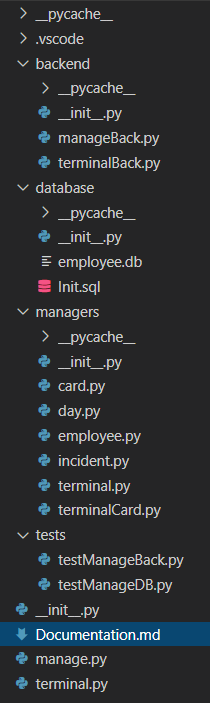
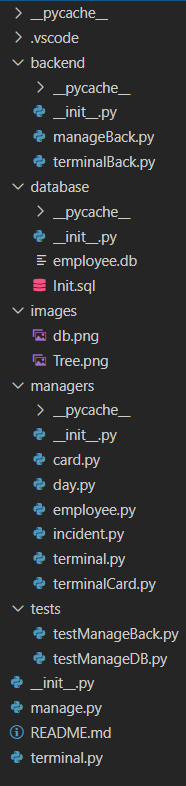
Modified readme and small fixes

diff --git a/manage.py b/manage.py
@@ -23,7 +23,7 @@ def make_action(arguments):
             manageBack.add_terminal(conn, arguments.t)
         if arguments.c:
             manageBack.add_card(conn, arguments.c) 
-        else:
+        if not arguments.e and not arguments.t and not arguments.c:
             print("Provide object to add: [-e Name Surname] [-t ID] [-c ID]")
     elif choice == 'delete':
         if arguments.e:
@@ -32,7 +32,7 @@ def make_action(arguments):
             manageBack.delete_terminal(conn, arguments.t)
         if arguments.c:
             manageBack.delete_card(conn, arguments.c)  
-        else:
+        if not arguments.e and not arguments.t and not arguments.c:
             print("Provide object to delete: [-e ID] [-t ID] [-c ID]")     
     elif choice == 'list':
         if arguments.objects == 'employees':

diff --git a/README.md b/README.md
@@ -140,3 +140,11 @@ Keeps all terminal data
 ### __terminalCard__
 
 Keeps data about when terminal was used and by what cardID
+
+
+## Usage screenshots
+
+![Image](images/s1.png)
+![Image](images/s2.png)
+![Image](images/s3.png)
+![Image](images/s4.png)
